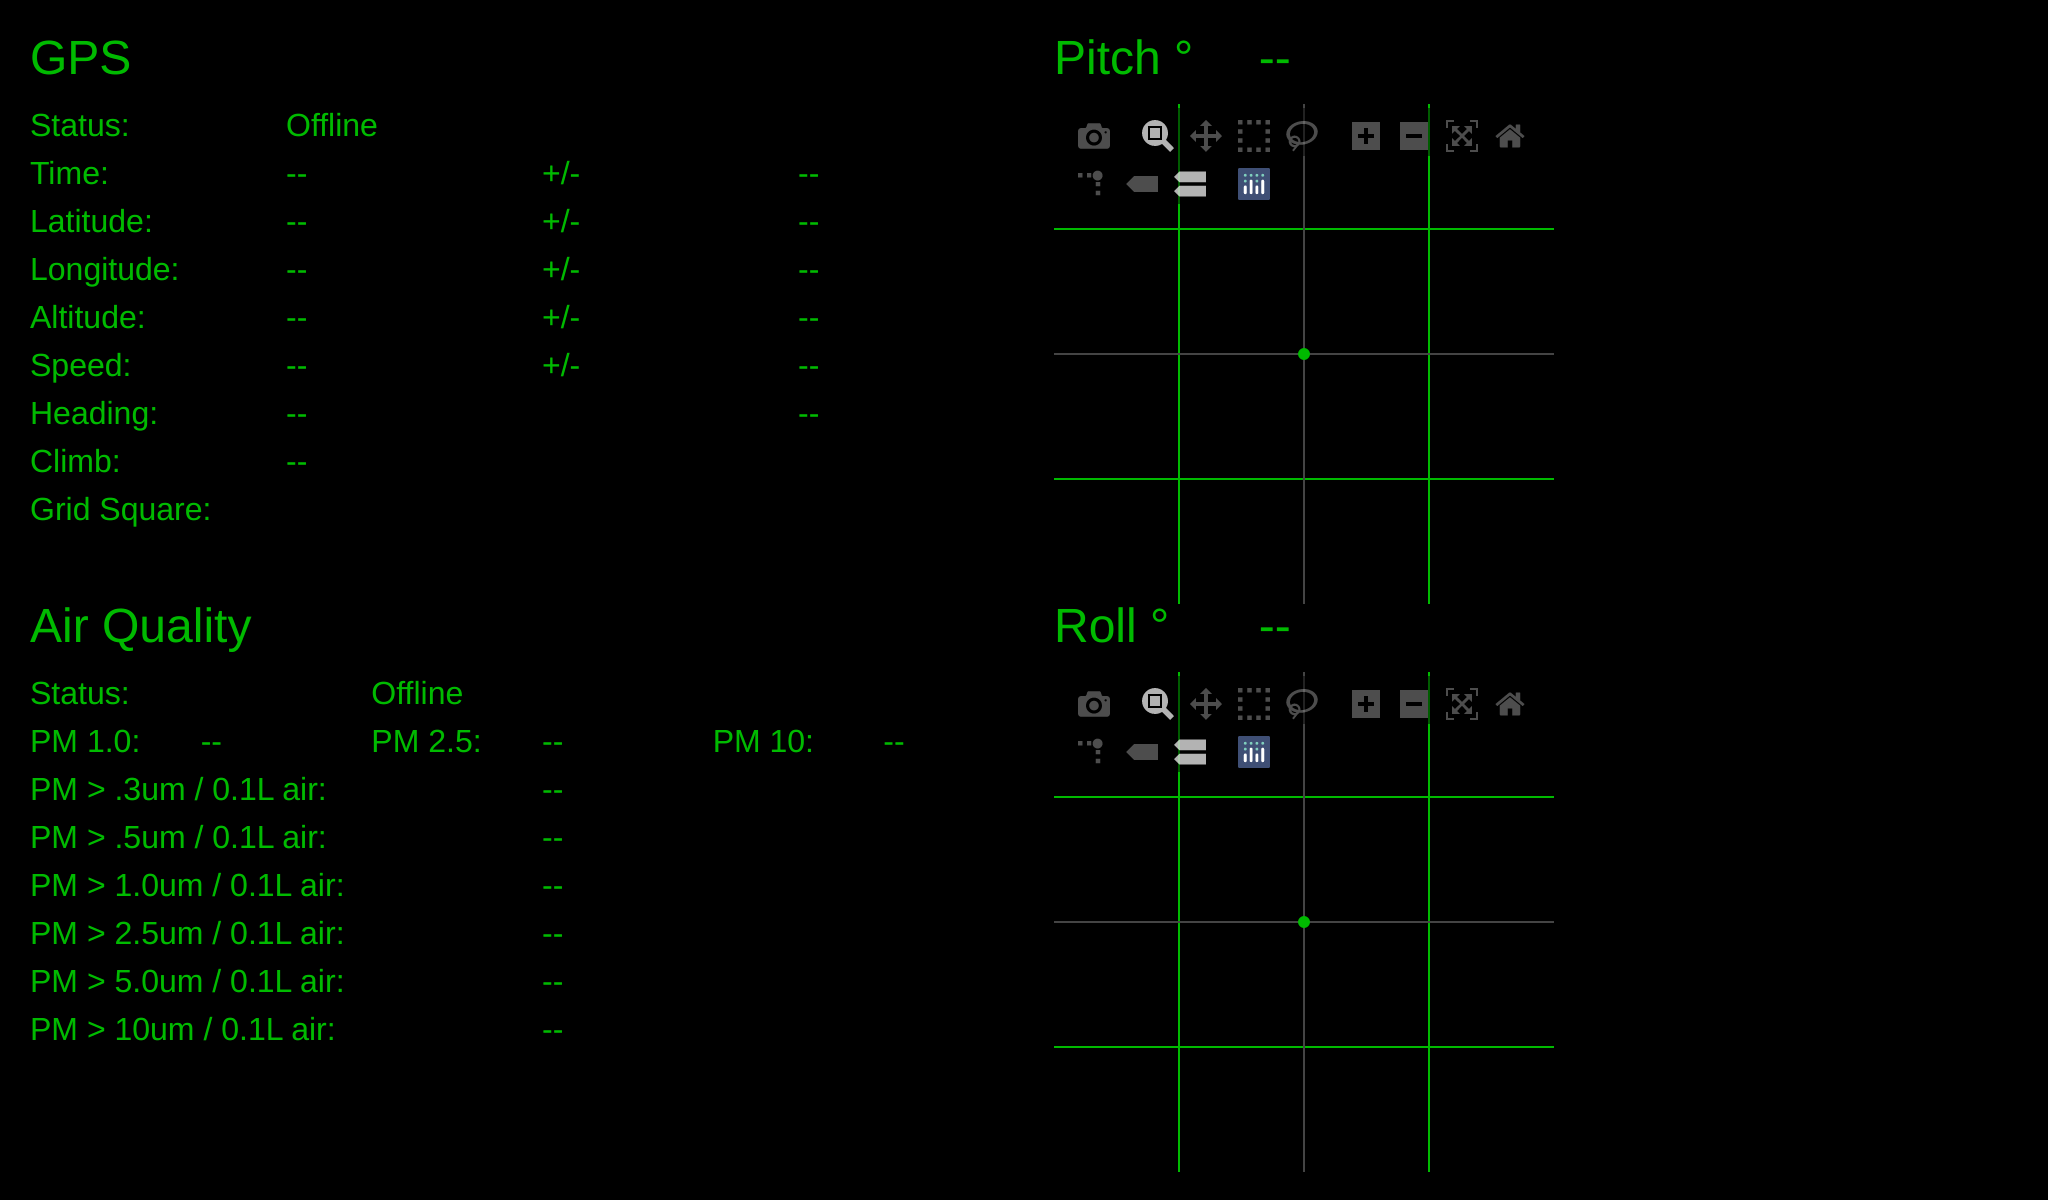
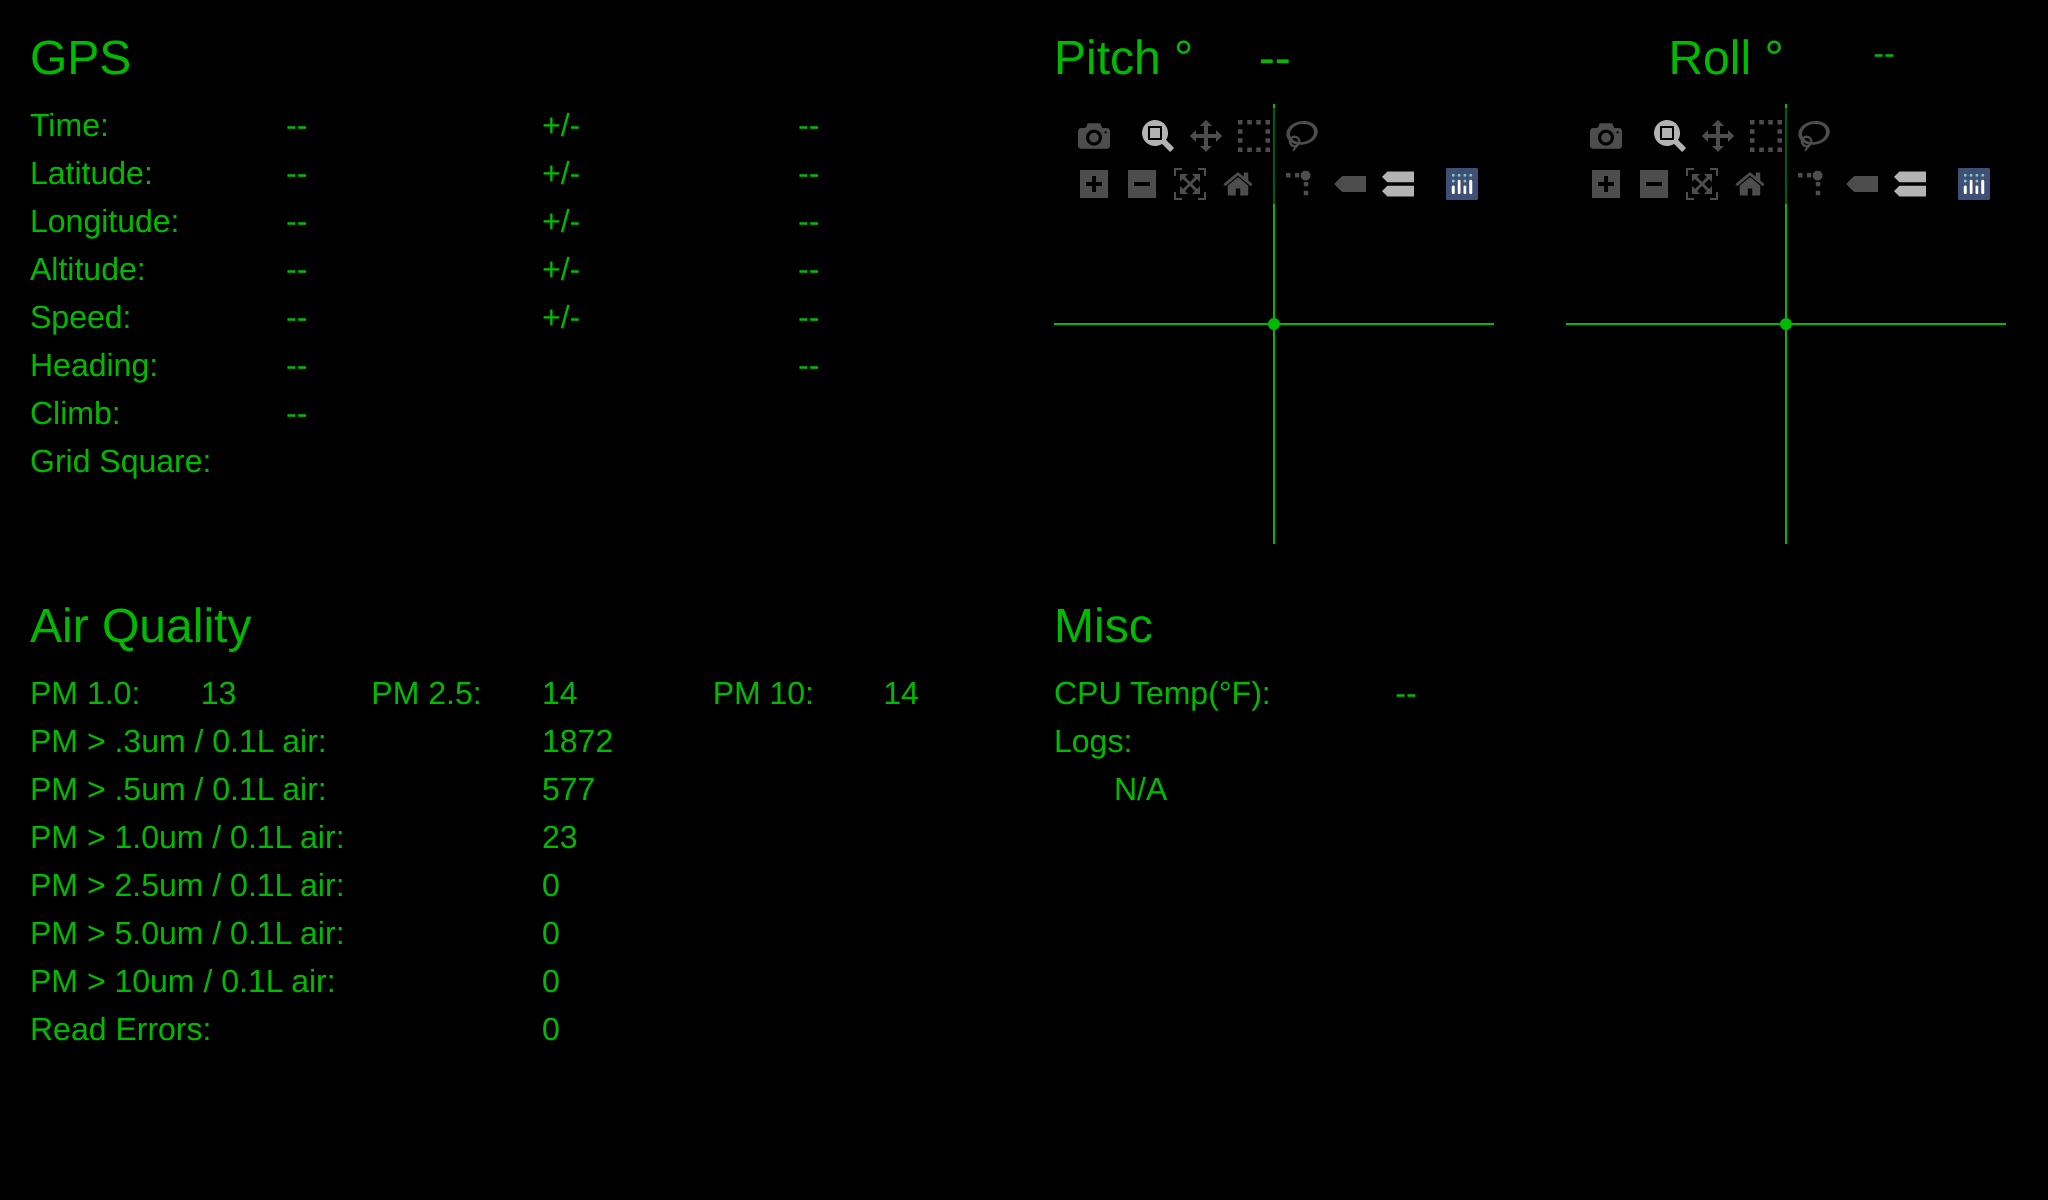
ui tweaks; working air sensor module

diff --git a/miscDashboard.html b/miscDashboard.html
@@ -17,12 +17,6 @@
                     </div>
                 </div>
                 <div class="row">
-                    <div class="col-sm">Status:</div>
-                    <div class="col-sm">Offline</div>
-                    <div class="col-sm"></div>
-                    <div class="col-sm"></div>
-                </div>
-                <div class="row">
                     <div class="col-sm">Time:</div>
                     <div class="col-sm">--</div>
                     <div class="col-sm">+/-</div>
@@ -73,6 +67,7 @@
             </div>
         </div>
         <div id="GyroPitchDiv" class="divider">
+
             <div class="container-fluid">
                 <div class="row">
                     <div class="col-sm">
@@ -82,10 +77,17 @@
                         <h4>--</h4>
                     </div>
                     <div class="col-sm"></div>
-                    <div class="col-sm"></div>
-                    <div class="col-sm"></div>
+                    <div class="col-sm"><h4>Roll &deg;</h4></div>
+                    <div class="col-sm">--</div>
                 </div>
-                <div id="pitchGraph"></div>
+                <div class="row">
+                    <div class="col-sm">
+                        <div id="pitchGraph"></div>
+                    </div>
+                    <div class="col-sm">
+                        <div id="rollGraph"></div>
+                    </div>
+                </div>
             </div>
         </div>
         <div id="airQualityDiv" class="divider">
@@ -96,70 +98,76 @@
                     </div>
                 </div>
                 <div class="row">
-                    <div class="col-sm">Status:</div>
-                    <div class="col-sm">Offline</div>
-                    <div class="col-sm"></div>
+                    <div class="col-sm" id="pm10Header">PM 1.0:</div>
+                    <div class="col-sm" id="pm10Field">--</div>
+                    <div class="col-sm" id="pm25Header">PM 2.5:</div>
+                    <div class="col-sm" id="pm25Field">--</div>
+                    <div class="col-sm" id="pm100Header">PM 10:</div>
+                    <div class="col-sm" id="pm100Field">--</div>
                 </div>
                 <div class="row">
-                    <div class="col-sm">PM 1.0:</div>
-                    <div class="col-sm">--</div>
-                    <div class="col-sm">PM 2.5:</div>
-                    <div class="col-sm">--</div>
-                    <div class="col-sm">PM 10:</div>
-                    <div class="col-sm">--</div>
+                    <div class="col-sm" id="pm3umHeader">PM > .3um / 0.1L air:</div>
+                    <div class="col-sm" id="pm3umField">--</div>
                 </div>
                 <div class="row">
-                    <div class="col-sm">PM > .3um / 0.1L air:</div>
-                    <div class="col-sm">--</div>
+                    <div class="col-sm" id="pm5umHeader">PM > .5um / 0.1L air:</div>
+                    <div class="col-sm" id="pm5umField">--</div>
                 </div>
                 <div class="row">
-                    <div class="col-sm">PM > .5um / 0.1L air:</div>
-                    <div class="col-sm">--</div>
+                    <div class="col-sm" id="pm10umHeader">PM > 1.0um / 0.1L air:</div>
+                    <div class="col-sm" id="pm10umField">--</div>
                 </div>
                 <div class="row">
-                    <div class="col-sm">PM > 1.0um / 0.1L air:</div>
-                    <div class="col-sm">--</div>
+                    <div class="col-sm" id="pm25umHeader">PM > 2.5um / 0.1L air:</div>
+                    <div class="col-sm" id="pm25umField">--</div>
                 </div>
                 <div class="row">
-                    <div class="col-sm">PM > 2.5um / 0.1L air:</div>
-                    <div class="col-sm">--</div>
+                    <div class="col-sm" id="pm50umHeader">PM > 5.0um / 0.1L air:</div>
+                    <div class="col-sm" id="pm50umField">--</div>
                 </div>
                 <div class="row">
-                    <div class="col-sm">PM > 5.0um / 0.1L air:</div>
-                    <div class="col-sm">--</div>
+                    <div class="col-sm" id="pm100umHeader">PM > 10um / 0.1L air:</div>
+                    <div class="col-sm" id="pm100umField">--</div>
                 </div>
                 <div class="row">
-                    <div class="col-sm">PM > 10um / 0.1L air:</div>
-                    <div class="col-sm">--</div>
+                    <div class="col-sm" id="airQualityErrorHeader">Read Errors:</div>
+                    <div class="col-sm" id="airQualityErrorField">0</div>
                 </div>
             </div>
         </div>
-        <div id="gyroRollDiv" class="divider">
+        <div id="miscDataDiv" class="divider">
             <div class="container-fluid">
                 <div class="row">
                     <div class="col-sm">
-                        <h4>Roll &deg;</h4>
+                        <h4>Misc</h4>
                     </div>
-                    <div class="col-sm">
-                        <h4>--</h4>
-                    </div>
+                </div>
+                <div class="row">
+                    <div class="col-sm" id="cpuTempHeader">CPU Temp(&deg;F):</div>
+                    <div class="col-sm" id="cpuTempField">--</div>
                     <div class="col-sm"></div>
+                </div>
+                <div class="row">
+                    <div class="col-sm" id="cpuTempHeader">Logs:</div>
                     <div class="col-sm"></div>
                     <div class="col-sm"></div>
                 </div>
-                <div id="rollGraph"></div>
+                <div class="row pad-left">
+                    <div class="col-sm">N/A</div>
+                </div>
             </div>
         </div>
     </body>
 </html>
+
 <script>
     var x_max = 4; //max number of data points per plot
 
     var fontSize = 20;
     var defaultColor = '#00ba00';
     var plotBackgroundColor = '#000000';
-    var plotHeight = 250;
-    var plotWidth = 250;
+    var plotHeight = 220;
+    var plotWidth = 220;
     var plotLeftMargin = 0;
     var plotRightMargin = 0;
     var plotBottomMargin = 0;
@@ -185,12 +193,14 @@
             pad: padding
         },
         xaxis: {
-                tickangle: tickAngle,
+            tickangle: tickAngle,
             nticks: numXTicks,
-            gridcolor: defaultColor
+            color: defaultColor,
+            showgrid: false
         },
         yaxis: {
-                gridcolor: defaultColor
+            color: defaultColor,
+            showgrid: false
         },
         font: {
             size: fontSize,
@@ -242,12 +252,14 @@
             pad: padding
         },
         xaxis: {
-                tickangle: tickAngle,
+            tickangle: tickAngle,
             nticks: numXTicks,
-            gridcolor: defaultColor
+            color: defaultColor,
+            showgrid: false
         },
         yaxis: {
-                gridcolor: defaultColor
+            color: defaultColor,
+            showgrid: false
         },
         font: {
             size: fontSize,
@@ -286,11 +298,38 @@
     if (socket != null) {
         $("#statusField").text = "Connected";
     }
+    
+    socket.on("airQualityData", function(msg) {
+        updateAirQualityStats(msg);
+    });
+    
+    socket.on("airQualityError", function(msg) {
+        updateAirQualityError(msg);
+    });
 
     socket.on("gpsData", function(msg) {
-
-        updateGpsGraphs(runTime, idleTime);
         updatePitchGraph(pitchAngle);
         updateRollGraph(rollAngle);
     });
+</script>
+
+<script>
+    function updateAirQualityStats(msg) {
+        var data = $.parseJSON(msg);
+        $("#pm10Field").text(data["pm10"]);
+        $("#pm25Field").text(data["pm25"]);
+        $("#pm100Field").text(data["pm100"]);
+        $("#pm3umField").text(data["pm3um"]);
+        $("#pm5umField").text(data["pm5um"]);
+        $("#pm10umField").text(data["pm10um"]);
+        $("#pm25umField").text(data["pm25um"]);
+        $("#pm50umField").text(data["pm50um"]);
+        $("#pm100umField").text(data["pm100um"]);   
+    }
+    
+    function updateAirQualityError(msg) {
+        var numErrors = parseInt(msg);
+        $("#airQualityErrorField").text(
+            parseInt($("#airQualityErrorField").text) + numErrors);
+    }
 </script>

diff --git a/index.js b/index.js
@@ -37,6 +37,16 @@ io.on('connection', (socket) => {
   socket.on('sensorDumpRequest', msg => {
     io.emit('sensorDumpRequest', msg);
   });
+  
+  socket.on('gpsData', msg => {
+    io.emit('gpsData', msg);
+  });
+  socket.on('airQualityData', msg => {
+    io.emit('airQualityData', msg);
+  });
+  socket.on('airQualityError', msg => {
+    io.emit('airQualityError', msg);
+  });
 });
 
 http.listen(port, () => {

diff --git a/public/css/miscDashboard.css b/public/css/miscDashboard.css
@@ -10,6 +10,10 @@ body {
   font-family: -apple-system, BlinkMacSystemFont, "Segoe UI", Roboto, Helvetica, Arial, sans-serif;
 }
 
+.pad-left {
+	margin-left: 15px;
+}
+
 .divider {
   width: 50%;
   height: 50%;
